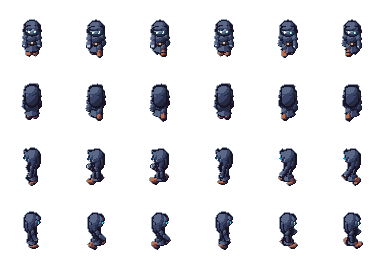
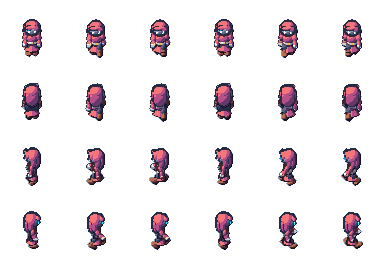
Antagonisti 2 e 3 piu' leggibili: volto scoperto e colori diversi
Claude-Session: https://claude.ai/code/session_014ycMSkFAn8ixUvbSfrqtAR

diff --git a/tools/art/build_npc.py b/tools/art/build_npc.py
@@ -78,11 +78,13 @@ ASPETTI = {
     "soglia_01": _npc("soglia_01", scale=1.22, build=1.3, skin="skin_grey", hair="hair_white", hair_style="short",
                       outfit="armor", top="cloth_grey", bottom="cloth_black", cape="cloth_red", hat="helmet",
                       eyes="eye_yellow", weapon="sword", brows=14, mouth=-1),
-    "soglia_02": _npc("soglia_02", skin="skin_pale", hair="hair_black", hair_style="hood", outfit="robe",
-                      top="cloth_black", bottom="cloth_black", belt="bone", scarf="cloth_grey", eyes="eye_white",
-                      beard="fur_grey", brows=8, mouth=-1),
-    "soglia_03": _npc("soglia_03", skin="skin_grey", hair="hair_black", hair_style="long", outfit="robe",
-                      top="cloth_black", bottom="cloth_black", cape="cloth_black", belt="cloth_black",
+    # 2026-11-18: capelli bianchi lunghi, saio grigio cenere e sciarpa d'osso (prima il cappuccio nero copriva il volto)
+    "soglia_02": _npc("soglia_02", skin="skin_pale", hair="hair_white", hair_style="long", outfit="robe",
+                      top="cloth_grey", bottom="cloth_black", belt="bone", scarf="bone", eyes="eye_cyan",
+                      brows=8, mouth=-1),
+    # 2026-11-18: la veste viola sotto il mantello nero, capelli viola (prima era troppo simile a soglia_02)
+    "soglia_03": _npc("soglia_03", skin="skin_grey", hair="hair_purple", hair_style="long", outfit="robe",
+                      top="cloth_purple", bottom="cloth_black", cape="cloth_black", belt="bone",
                       eyes="eye_cyan", brows=10),
     "soglia_04": _npc("soglia_04", skin="skin_pale", hair="hair_white", hair_style="long", outfit="robe",
                       top="cloth_white", bottom="cloth_white", belt="cloth_red", hat="crown", eyes="eye_red",
